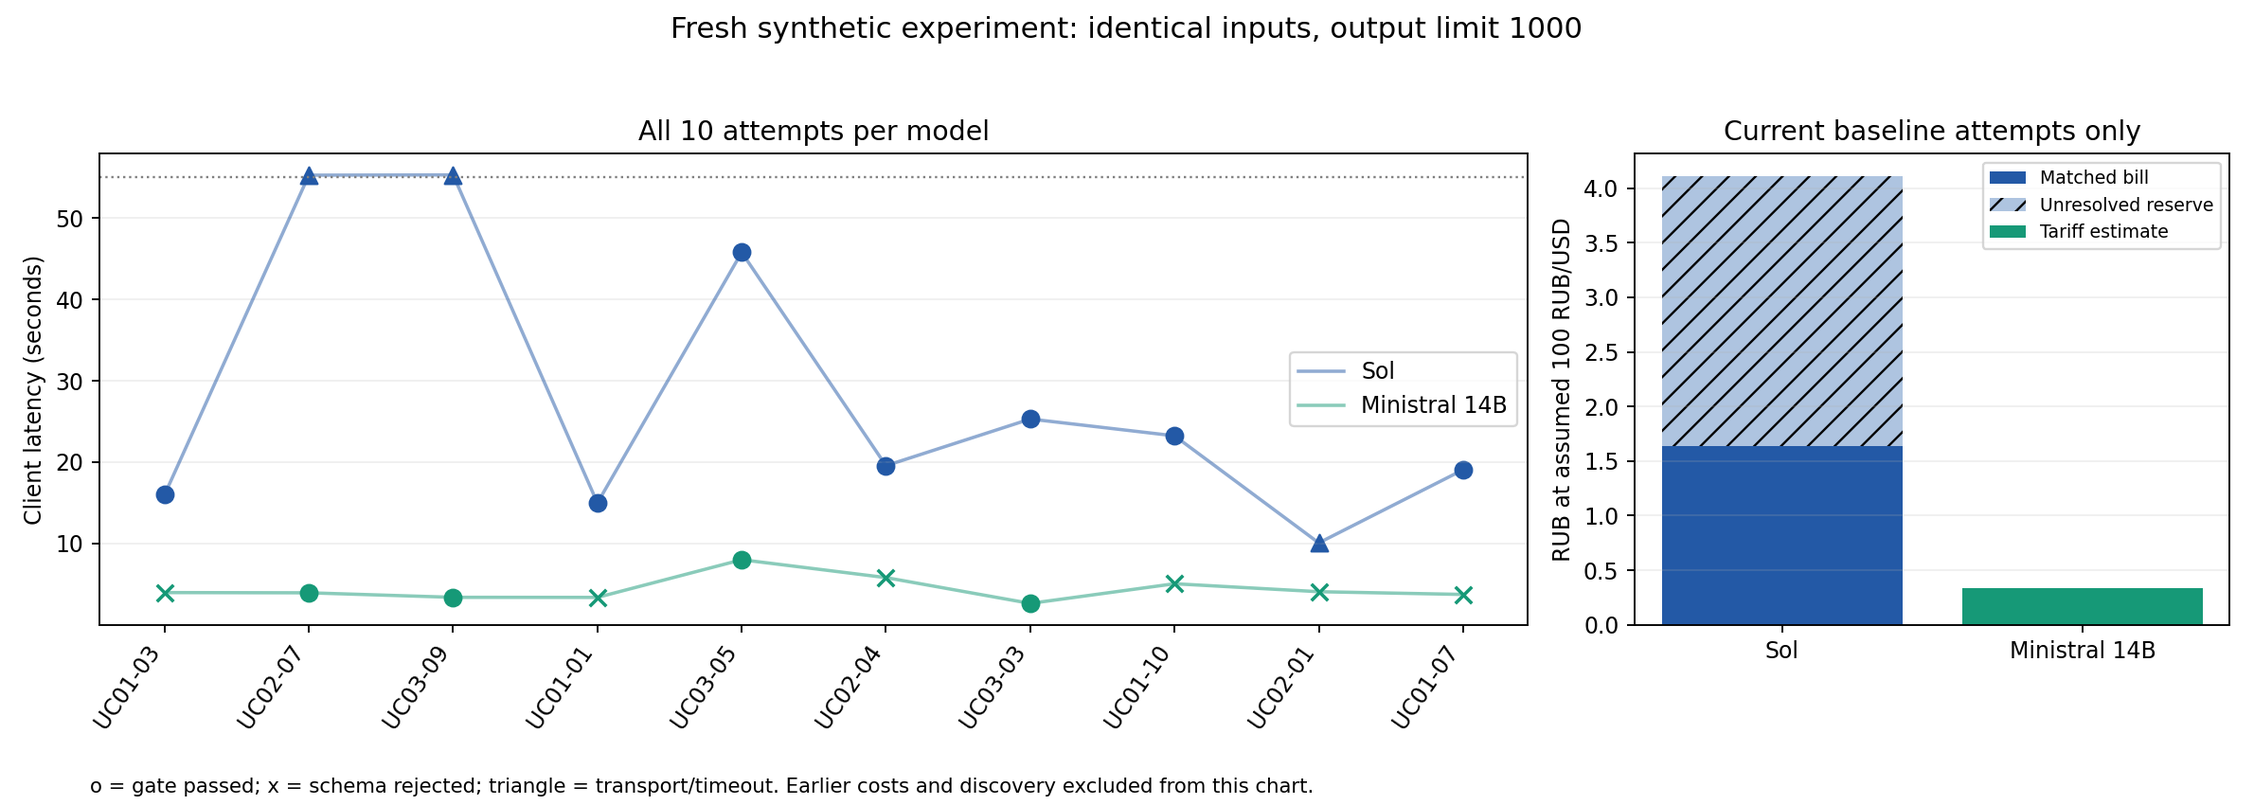
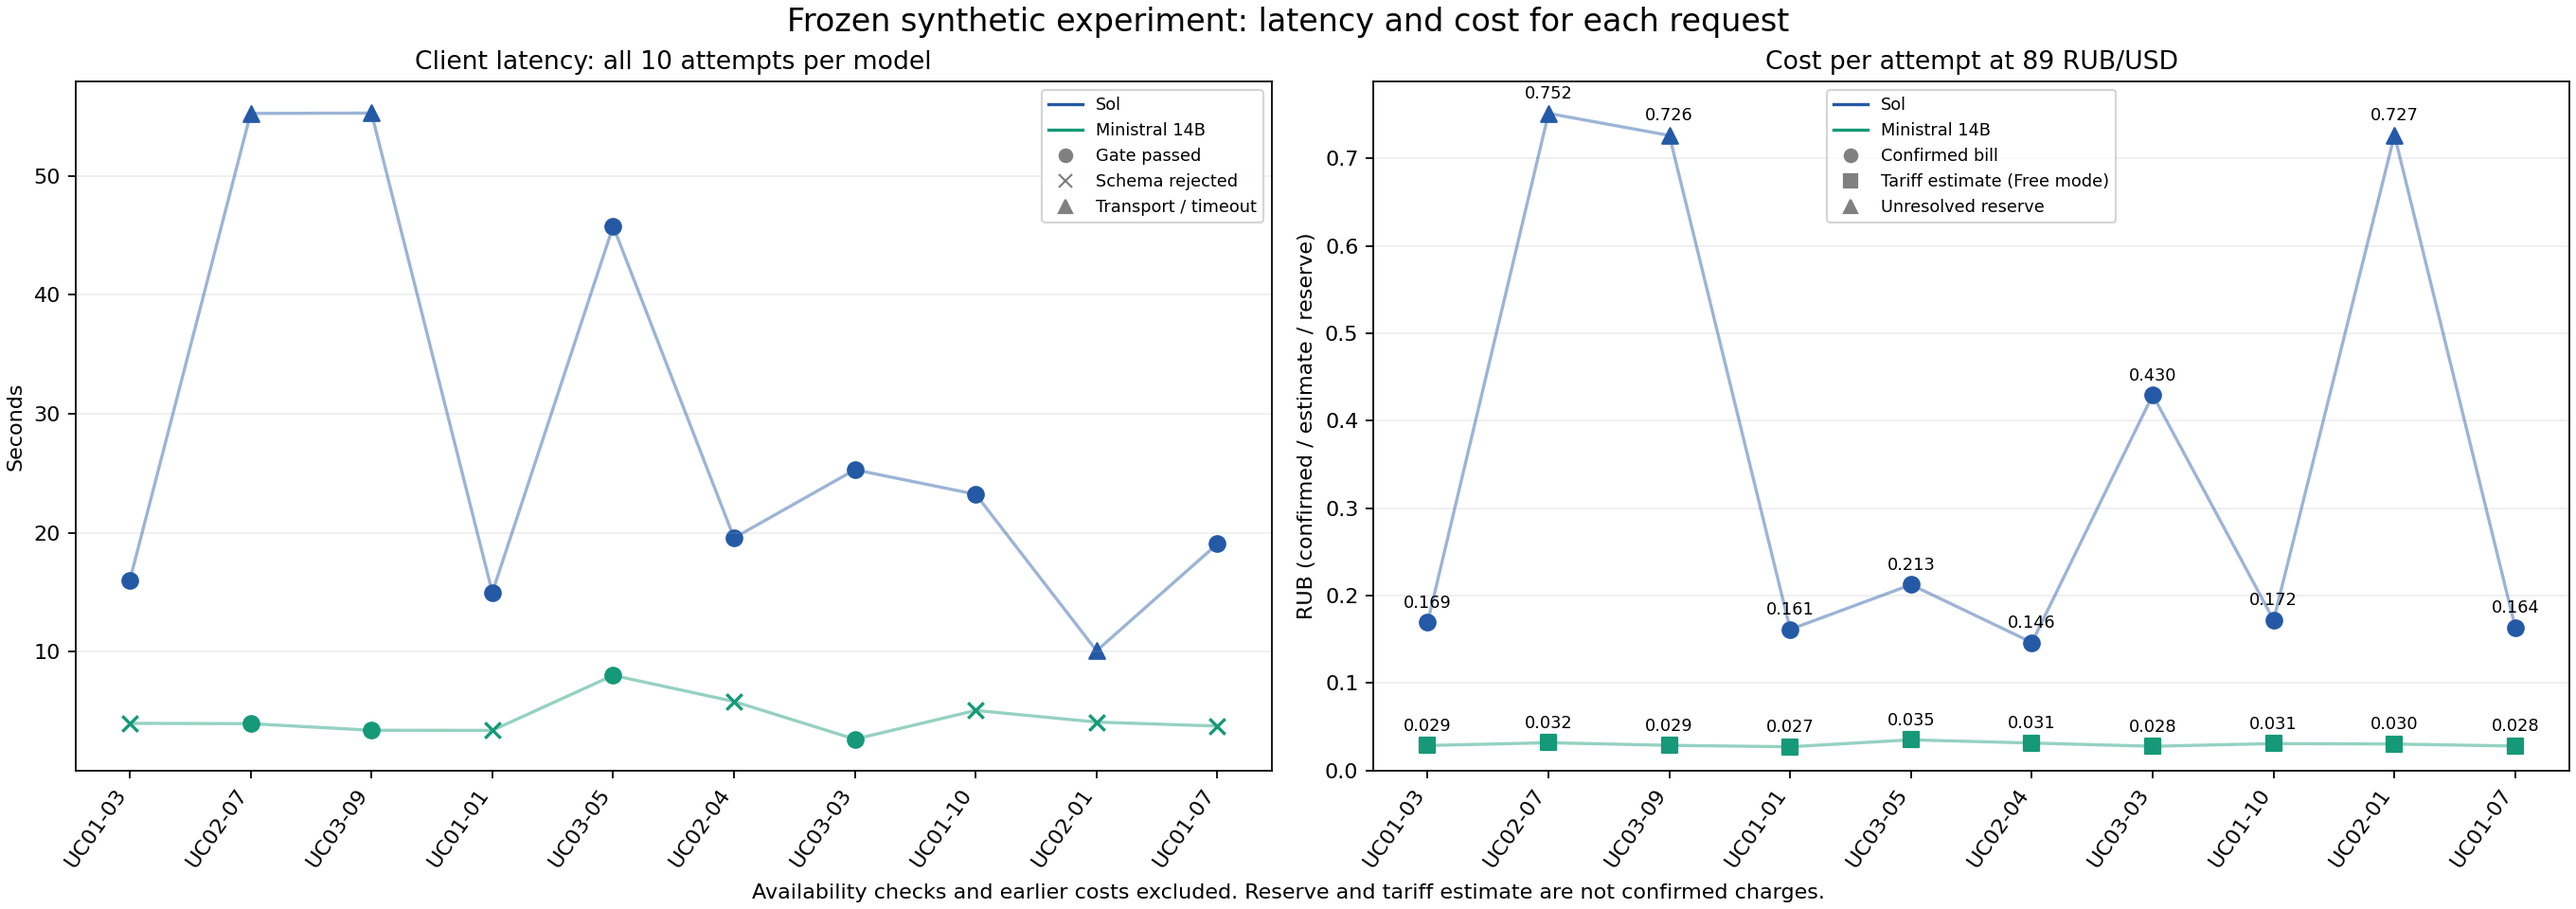
Lab2: recalculate RUB costs at 89 per USD and chart each request

diff --git a/experiments/build_cost_chart.py b/experiments/build_cost_chart.py
@@ -1,0 +1,51 @@
+"""Plot frozen latency and per-request cost evidence; no network calls."""
+import json
+from decimal import Decimal
+from pathlib import Path
+
+import matplotlib
+matplotlib.use('Agg')
+import matplotlib.pyplot as plt
+from matplotlib.lines import Line2D
+
+ROOT = Path(__file__).resolve().parents[1]
+
+
+def main():
+    rows = [json.loads(line) for line in (ROOT / 'evidence/results.jsonl').read_text(encoding='utf-8').splitlines()]
+    config = json.loads((ROOT / 'evidence/experiment-config.json').read_text(encoding='utf-8'))
+    budget = json.loads((ROOT / 'evidence/budget-summary.json').read_text(encoding='utf-8'))
+    rate = Decimal(str(budget['rub_per_usd_assumption']))
+    cases = config['case_ids']
+    fig, (latency, cost) = plt.subplots(1, 2, figsize=(17, 6), layout='constrained')
+    providers = [('sol', 'Sol', '#2459a6'), ('mistral_free', 'Ministral 14B', '#159978')]
+    for provider, label, color in providers:
+        selected = [next(r for r in rows if r['provider'] == provider and r['case_id'] == cid) for cid in cases]
+        times = [r['latency_ms'] / 1000 for r in selected]
+        rub = [float(Decimal(str(r['cost_upper_usd'])) * rate) for r in selected]
+        latency.plot(range(len(cases)), times, color=color, alpha=.45)
+        cost.plot(range(len(cases)), rub, color=color, alpha=.45)
+        for x, (r, seconds, amount) in enumerate(zip(selected, times, rub)):
+            latency_marker = '^' if r['http_status'] != 200 else ('o' if r['gate_passed'] else 'x')
+            source = r['billing_source']
+            cost_marker = 'o' if source == 'account_usage_matched_completion_and_tokens' else ('^' if source == 'reservation_unresolved' else 's')
+            latency.scatter(x, seconds, marker=latency_marker, color=color, s=55)
+            cost.scatter(x, amount, marker=cost_marker, color=color, s=55)
+            cost.annotate(f'{amount:.3f}', (x, amount), xytext=(0, 7), textcoords='offset points', ha='center', fontsize=8)
+    for ax in (latency, cost):
+        ax.set_xticks(range(len(cases)), cases, rotation=55, ha='right')
+        ax.grid(axis='y', alpha=.2)
+    latency.set(title='Client latency: all 10 attempts per model', ylabel='Seconds')
+    cost.set(title=f'Cost per attempt at {rate} RUB/USD', ylabel='RUB (confirmed / estimate / reserve)')
+    cost.set_ylim(bottom=0)
+    model_handles = [Line2D([], [], color=c, label=n) for _, n, c in providers]
+    latency.legend(handles=model_handles + [Line2D([], [], color='gray', linestyle='', marker=m, label=l) for m, l in [('o', 'Gate passed'), ('x', 'Schema rejected'), ('^', 'Transport / timeout')]], fontsize=8)
+    cost.legend(handles=model_handles + [Line2D([], [], color='gray', linestyle='', marker=m, label=l) for m, l in [('o', 'Confirmed bill'), ('s', 'Tariff estimate (Free mode)'), ('^', 'Unresolved reserve')]], fontsize=8)
+    fig.suptitle('Frozen synthetic experiment: latency and cost for each request', fontsize=15)
+    fig.supxlabel('Availability checks and earlier costs excluded. Reserve and tariff estimate are not confirmed charges.', fontsize=10)
+    fig.savefig(ROOT / 'evidence/latency-cost.png', dpi=160)
+    plt.close(fig)
+
+
+if __name__ == '__main__':
+    main()

diff --git a/experiments/analyze.py b/experiments/analyze.py
@@ -1,5 +1,5 @@
 """Recompute the completed design spikes offline; no provider/runtime imports."""
-import hashlib,json,math
+import csv,hashlib,json,math
 from decimal import Decimal
 from pathlib import Path
 from jsonschema import Draft202012Validator
@@ -12,6 +12,7 @@ def analysis():
  cases={c['id']:c for c in read_jsonl('cases.jsonl')};kb=read_jsonl('kb.jsonl')
  config=json.loads((ROOT/'evidence/experiment-config.json').read_text(encoding='utf-8'))
  budget=json.loads((ROOT/'evidence/budget-summary.json').read_text(encoding='utf-8'))
+ rate=Decimal(str(budget['rub_per_usd_assumption']))
  validator=Draft202012Validator(expanded_schema('AnalyzeResponse'))
  assert len(rows)==20 and {r['provider'] for r in rows}==set(MODELS)
  for r in rows:
@@ -47,7 +48,26 @@ def analysis():
   pair=[r for r in rows if r['case_id']==cid]
   assert len(pair)==2 and pair[0]['input_context_sha256']==pair[1]['input_context_sha256']
  assert sum(Decimal(str(r['cost_upper_usd'])) for r in rows)==Decimal(str(budget['current_selected_attempts_upper_usd']))
- assert Decimal(str(report['current_run_cost_upper_usd']))+Decimal(str(report['prior_cost_and_setup_reserve_usd']))==Decimal(str(report['total_cost_upper_usd']))<=Decimal('.20')
+ assert Decimal(str(report['current_run_cost_upper_usd']))+Decimal(str(report['prior_cost_and_setup_reserve_usd']))==Decimal(str(report['total_cost_upper_usd']))<=Decimal(str(budget['original_run_cap_usd']))
+ assert Decimal(str(report['total_cost_upper_usd']))*rate<=Decimal(str(budget['authorized_total_rub']))
+ report['rub_per_usd_assumption']=float(rate)
+ report['total_cost_upper_rub']=float(Decimal(str(report['total_cost_upper_usd']))*rate)
+ for name in MODELS:
+  group=[r for r in rows if r['provider']==name]
+  report['models'][name]['cost_upper_rub']=float(sum(Decimal(str(r['cost_upper_usd'])) for r in group)*rate)
+  confirmed=[Decimal(str(r['billed_usd'])) for r in group if r.get('billed_usd') is not None]
+  report['models'][name]['confirmed_billed_rub']=float(sum(confirmed)*rate) if confirmed else None
+ with (ROOT/'evidence/request-costs-rub.csv').open('w',encoding='utf-8',newline='') as out:
+  writer=csv.DictWriter(out,fieldnames=['case_id','provider','billing_source','rub_per_usd','cost_upper_usd','cost_upper_rub','billed_usd','billed_rub'])
+  writer.writeheader()
+  for cid in config['case_ids']:
+   for r in (r for r in rows if r['case_id']==cid):
+    billed=r.get('billed_usd')
+    writer.writerow({'case_id':cid,'provider':r['provider'],'billing_source':r['billing_source'],
+     'rub_per_usd':str(rate),'cost_upper_usd':r['cost_upper_usd'],
+     'cost_upper_rub':format(Decimal(str(r['cost_upper_usd']))*rate,'.6f'),
+     'billed_usd':'' if billed is None else billed,
+     'billed_rub':'' if billed is None else format(Decimal(str(billed))*rate,'.6f')})
  for p,record in config['frozen_input_sha256'].items():
   raw=(ROOT/p).read_bytes().replace(b'\r\n',b'\n')
   assert hashlib.sha256(raw).hexdigest()==record['git_lf_sha256']

diff --git a/experiments/build_notebook.py b/experiments/build_notebook.py
@@ -28,11 +28,14 @@ sources=[
   "    if r['case_id'] in ('UC03-05','UC03-09') and r['context_mode']=='bm25':\n"
   "        print(r['provider'],r['case_id'],json.dumps(r['raw_card'],ensure_ascii=False,indent=2))\n"
   "print('Comparison scope: selected 20 attempts; availability checks are budget-only')"),
- ('## Стоимость\nUSD cap рассчитывается при условных 100 ₽/$. Неизвестные списания сохраняют резерв. '
+ ('## Стоимость\nРублёвые суммы пересчитаны по заданному курсу 89 ₽/$. Исторический cap $0.20 не изменён. Неизвестные списания сохраняют резерв. '
   'Цифры предыдущих прогонов не участвуют в метриках текущей модели.',None),
  (None,"print('Current upper USD:',report['current_run_cost_upper_usd'])\n"
   "print('Prior cost/setup reserve USD:',report['prior_cost_and_setup_reserve_usd'])\n"
   "print('Shared total upper USD:',report['total_cost_upper_usd'])\n"
+  "print('RUB/USD:',report['rub_per_usd_assumption'])\n"
+  "print('Shared total upper RUB:',report['total_cost_upper_rub'])\n"
+  "print((root/'evidence/request-costs-rub.csv').read_text(encoding='utf-8'))\n"
   "assert report['total_cost_upper_usd']<=.20\n"
   "print('Independent product acceptance: pending')"),
  ('## Решение\nОбоснование и текущие ограничения описаны в docs/model-candidates.md. '

diff --git a/docs/model-candidates.md b/docs/model-candidates.md
@@ -8,14 +8,16 @@
 
 ## Кандидаты и стоимость
 
-| Модель / маршрут | USD за 1M input / cached / output | 8000 input + 2000 output | Два таких вызова |
+| Модель / маршрут | USD за 1M input / cached / output | Условный запрос: 8000 input + 2000 output | Два таких условных вызова |
 |---|---:|---:|---:|
-| OpenAI `openai/gpt-5.6-sol`, ApiMira | 0.68 / 0.0756 / 3.98 | $0.01340 ≈ 1.34 ₽ | ≈ 2.68 ₽ |
-| Mistral `ministral-14b-2512`, прямой API, Free mode | 0.20 / 0.02 / 0.20 | $0.00200 ≈ 0.20 ₽ | ≈ 0.40 ₽ |
+| OpenAI `openai/gpt-5.6-sol`, ApiMira | 0.68 / 0.0756 / 3.98 | $0.01340 ≈ 1.1926 ₽ | ≈ 2.3852 ₽ |
+| Mistral `ministral-14b-2512`, прямой API, Free mode | 0.20 / 0.02 / 0.20 | $0.00200 ≈ 0.1780 ₽ | ≈ 0.3560 ₽ |
 
-Источники на дату проверки: [снимок тарифа ApiMira](../evidence/experiment-config.json), [официальные тарифы Mistral](https://docs.mistral.ai/inference/pricing), [выбор доступной модели](../evidence/experiment-config.json). Цены в RUB рассчитаны при условных 100 ₽/$, без скидки кэша; это не валютная котировка. В эксперименте output ограничен 1000, а таблица показывает будущий runtime ceiling 2000. Free mode предоставляет ограниченную квоту, но нулевой денежный счёт эксперимент не подтверждает; резервируется опубликованный тариф. Лимиты зависят от модели: [Mistral usage limits](https://docs.mistral.ai/admin/billing-usage/usage-limits).
+Источники на дату проверки: [снимок тарифа ApiMira](../evidence/experiment-config.json), [официальные тарифы Mistral](https://docs.mistral.ai/inference/pricing), [выбор доступной модели](../evidence/experiment-config.json). Цены в RUB рассчитаны по заданному курсу 89 ₽/$, без скидки кэша; это не валютная котировка. В эксперименте output ограничен 1000, а таблица показывает отдельный плановый сценарий с 2000 output, а не фактическую или максимальную измеренную цену запроса эксперимента. Free mode предоставляет ограниченную квоту, но нулевой денежный счёт эксперимент не подтверждает; резервируется опубликованный тариф. Лимиты зависят от модели: [Mistral usage limits](https://docs.mistral.ai/admin/billing-usage/usage-limits).
 
 Предварительная цель продукта 5 ₽ за обращение совместима с этими расчётами при двух вызовах. Реальные токены, инфраструктура, стоимость retrieval и валютный курс ещё должны быть измерены; это не гарантированный SLO.
+
+Подтверждённые списания за 7 успешных Sol запросов: **$0.016348 = 1.454972 ₽ суммарно**. Цена каждого запроса с указанием типа суммы приведена в [CSV](../evidence/request-costs-rub.csv) и на [графике](../evidence/latency-cost.png). Резерв и оценка по тарифу не являются подтверждёнными списаниями.
 
 ## Что показал новый прогон
 
@@ -44,7 +46,7 @@
 
 ## Цена решения
 
-**Деньги:** Sol до $0.01340 за один целевой вызов (8000 input + 2000 output), до $0.02680 за два; это ≈1.34/2.68 ₽ при условных 100 ₽/$. Retrieval, инфраструктура и повторный вызов учитываются отдельно. Подтверждённый биллинг текущих 7 успешных Sol запросов — $0.016348; неизвестные списания удерживают резерв.
+**Деньги:** Sol до $0.01340 за один целевой вызов (8000 input + 2000 output), до $0.02680 за два; это ≈1.1926/2.3852 ₽ по заданному курсу 89 ₽/$. Retrieval, инфраструктура и повторный вызов учитываются отдельно. Подтверждённый биллинг текущих 7 успешных Sol запросов — $0.016348; неизвестные списания удерживают резерв.
 
 **Приватность:** модель получает обращение, разрешённую историю и выдержки из внутренней БЗ. Через ApiMira они уходят внешнему посреднику и маршруту модели; прямой Mistral API также внешний. В эксперименте данные только синтетические. Для реальных обращений необходимы удаление секретов/лишних персональных данных и проверка условий обработки, хранения и передачи данных поставщиков. Регион, сроки хранения, обучение на данных и полный состав обработчиков этим экспериментом не проверены. Пока условия не приняты командой, реальные чувствительные тексты не допускаются к этому маршруту. Это ограничение выбора облака, а не обещание конфиденциальности по факту работы API.
 

diff --git a/docs/ai-pipeline.md b/docs/ai-pipeline.md
@@ -24,7 +24,7 @@ ApiMira не принимает response_format, поэтому общий trans
 
 ## Бюджет, доступность и задержка
 
-Итоговый общий лимит эксперимента — 20 ₽, включая ранее учтённые расходы/резервы. Для программного cap используется условная конверсия 100 ₽/$ → $0.20; это не актуальная валютная котировка. До каждого запроса или пары проверяется общий расход плюс резерв. Вход оценивается по UTF-8 размеру payload, выход — по max tokens; точный токенизатор ещё нужен для runtime. Резерв записывается до сетевого вызова; прерывание не приводит к бесплатному повтору.
+Итоговый общий лимит эксперимента — 20 ₽, включая ранее учтённые расходы/резервы. Исторический программный cap $0.20 был задан при условных 100 ₽/$. При пересчёте представления по заданному курсу 89 ₽/$ он равен 17.80 ₽ и остаётся в пределах исходного лимита 20 ₽; долларовый cap завершённого запуска не меняется. Это не актуальная валютная котировка. До каждого запроса или пары проверяется общий расход плюс резерв. Вход оценивается по UTF-8 размеру payload, выход — по max tokens; точный токенизатор ещё нужен для runtime. Резерв записывается до сетевого вызова; прерывание не приводит к бесплатному повтору.
 
 Стоимость после ответа вычисляется по usage и снимку тарифов; для Sol по возможности сверяется с account usage по completion ID + модели + token counts. Для Mistral без account invoice это оценка по официальному тарифу; скидка кэша не предполагается без подтверждения. Тайм-ауты с неизвестным списанием сохраняют резерв. Невозможность принять полный контекст → ручной разбор; важную историю молча не отрезать.
 
